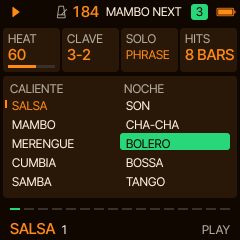
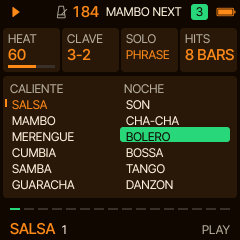
Twelve styles: the guaracha and the danzon
GUARACHA (CALIENTE, 200 BPM): the son fast, a conjunto's tres, bongo
martillo, maracas and trumpet, on 2-3. DANZON (NOCHE, 112 BPM): Cuba's
ballroom, the charanga's violins over the upright, the pailas on the
cinquillo and its answer, the guiro, no congas and no clave. Both come
after the ten of 0.1, so the saved settings and sets keep their numbers;
the styles list fits six a side.

Claude-Session: https://claude.ai/code/session_01VgesZfE8qndbNyhtoqzKDD

Changed region(s): [[0.4958, 0.4083, 0.9625, 0.7875], [0.0292, 0.4083, 0.3208, 0.7875]]

diff --git a/firmware/src/ma_groove.c b/firmware/src/ma_groove.c
@@ -151,6 +151,12 @@ const ma_style MA_STYLE[MA_STYLES] = {
      PF_BOSSA, BF_BOSSA, HF_BOSSA, MA_ST_BOSSA, 0, 40, 35, 30, MA_MUTE_OPEN, {{1, 7, 0}, {1, 6, 0}, {1, 4, 5}}},
     {"TANGO", MA_SIDE_NOCHE, 118, 9, MA_SC_HARMONIC, 70, MA_CLAVE_32, MA_HITS_8, {0, 1, 7}, {10, 5, 3, 4}, 1, 0,
      PF_TANGO, BF_TANGO, HF_TANGO, MA_ST_TANGO, 0, 30, 30, 35, MA_MUTE_OPEN, {{6, 7, 1}, {0, 2, 6}, {0, 7, 5}}},
+    /* the guaracha: the son fast and cheeky, a conjunto's (the tres, the bongo, the maracas, a trumpet) */
+    {"GUARACHA", MA_SIDE_CALIENTE, 200, 2, MA_SC_MAJOR, 80, MA_CLAVE_23, MA_HITS_8, {3, 1, 1}, {0, 1, 2, 11}, 1, 0,
+     PF_GUAJEO, BF_TUMBAO, HF_SON, MA_ST_GUARACHA, 1, 30, 30, 30, MA_MUTE_OPEN, {{7, 0, 3}, {0, 6, 5}, {0, 1, 2}}},
+    /* the danzon: Cuba's ballroom, a charanga's violins over the piano, the pailas' cinquillo, the guiro */
+    {"DANZON", MA_SIDE_NOCHE, 112, 5, MA_SC_MAJOR, 45, MA_CLAVE_32, MA_HITS_16, {0, 1, 5}, {2, 11, 0, 7}, 2, 0,
+     PF_CHACHA, BF_CHACHA, HF_CHACHA, MA_ST_DANZON, 0, 40, 35, 35, MA_MUTE_OPEN, {{1, 2, 7}, {0, 6, 5}, {4, 5, 3}}},
 };
 const char *ma_style_name(int i) { return MA_STYLE[clampi(i, 0, MA_STYLES - 1)].name; }
 
@@ -549,6 +555,8 @@ static const char *const GUITAR_PAT[MA_STYLES][2] = {
     [MA_ST_BOLERO] = {"b.a.a.a.f.a.a.a.b.a.a.a.f.a.a.a.", "b...a.a.f...a.a.b...a.a.f.a.a.a."},
     [MA_ST_BOSSA] = {"b..c..c.f.c..c..b..c..c.f..c..c.", "b.c..c.cf.c..c..b.c..c.cf..c.c.."},
     [MA_ST_TANGO] = {"D...D...D...D...D...D...D...D...", "D..D..D.D...D...D..D..D.D...D..."},
+    [MA_ST_GUARACHA] = {"D..u..d.m.u.d.u.D..u.d..m.u.d.u.", "b.u.m.u.b.u.m.u.b.u.m.u.f.u.m.u."},
+    [MA_ST_DANZON] = {"b.a.a.a.f.a.a.a.b.a.a.a.f.a.a.a.", "D...m...D...d.d.D...m...D...d.d."},
 };
 /* the bass: '.' rest, 'r' root, 'f' fifth, 'o' octave, 't' third, 'n' the next chord's root (the tumbao's
  * anticipation), 'p' a semitone below the next root (the approach); '-' holds the note before. Four of each family
@@ -663,6 +671,17 @@ static const perc_set_t PERC[MA_STYLES] = {
     /* the tango has no drums: the band is the rhythm. A wooden knock on the strong beats when HEAT is up */
     [MA_ST_TANGO] = {2, {{MA_DR_WOOD, G_OTHER, "x...............x..............."},
                          {MA_DR_TOM_LO, G_KICK, "o...............o..............."}}},
+    /* the guaracha: a conjunto's, the bongo's martillo, the maracas on the eighths (the claves on their own) */
+    [MA_ST_GUARACHA] = {6, {L_MARTILLO_0, L_MARTILLO_1, L_MARTILLO_2,
+                            {MA_DR_SHAKER_FWD, G_EXTRA, "x...x...x...x...x...x...x...x..."},
+                            {MA_DR_SHAKER_BACK, G_EXTRA, "..o...o...o...o...o...o...o...o."},
+                            {MA_DR_CONGA_MUTE, G_CONGA, "......o.......o.......o.......o."}}},
+    /* the danzon: the pailas (the timbal's shell) on the cinquillo and its answer, the low paila's boom at the end of
+     * the phrase, the guiro; no congas, no clave */
+    [MA_ST_DANZON] = {4, {{MA_DR_PAILA, G_TIMBAL, "X.xx.xx.x...x.x.X.xx.xx.x...x.x."},
+                          {MA_DR_TIMBAL_LO, G_TIMBAL, "..............................X."},
+                          {MA_DR_GUIRO_LONG, G_EXTRA, "x.......x.......x.......x......."},
+                          {MA_DR_GUIRO_SHORT, G_EXTRA, "....o.o.....o.o.....o.o.....o.o."}}},
 };
 
 /* the lanes for the PERC panel: CONGA BONGO TIMBAL EXTRA CLAVE and the rest */
@@ -1013,7 +1032,8 @@ static void play_perc(ma_groove *g, int i, uint32_t delay, float hum)
     float heat = (float)s->heat / 100.0f;
     int sc = sec_now(g);
     bool bells = sc == MA_SEC_MON || sc == MA_SEC_MON2 || sc == MA_SEC_MBO || sc == MA_SEC_MONA;
-    bool salsa_like = s->snd[3] == MA_ST_SALSA || s->snd[3] == MA_ST_MAMBO || s->snd[3] == MA_ST_SON;
+    bool salsa_like = s->snd[3] == MA_ST_SALSA || s->snd[3] == MA_ST_MAMBO || s->snd[3] == MA_ST_SON ||
+                      s->snd[3] == MA_ST_GUARACHA;
     bool intro_soft = s->arc && g->sec == MA_SEC_IN && g->sec_bar == 0;
     /* the style's lanes, but for the groups a card has set to its own pattern (or OFF) */
     for (int k = 0; k < ps->n; ++k) {

diff --git a/firmware/src/ma_ui.c b/firmware/src/ma_ui.c
@@ -503,13 +503,13 @@ static void mu_panel_styles(ma_ui *u)
     int sel = g->next_style >= 0 ? g->next_style : g->s.style;
     mu_label(10, 5, "CALIENTE", T_MID);
     mu_label(124, 5, "NOCHE", T_MID);
-    for (int i = 0; i < 10; ++i) {
+    for (int i = 0; i < MA_STYLES; ++i) {
         int col = MA_STYLE[i].side, row = 0;
         for (int k = 0; k < i; ++k) row += MA_STYLE[k].side == col;
-        int32_t x = col ? 120 : 6, y = 22 + row * 19;
+        int32_t x = col ? 120 : 6, y = 21 + row * 16;
         bool now = i == g->s.style, q = i == sel && g->next_style >= 0;
         if (q || (i == sel && !g->playing)) {
-            cv_rrect(x, y - 3, 110, 17, 3, T_ACCENT, T_SURF);
+            cv_rrect(x, y - 2, 110, 15, 3, T_ACCENT, T_SURF);
             cv_text_fit(x + 6, y, &AF_S, MA_STYLE[i].name, T_INK, T_ACCENT, 100);
         } else {
             cv_text_fit(x + 6, y, &AF_S, MA_STYLE[i].name, now ? T_THEME : T_TEXT, T_SURF, 100);

diff --git a/firmware/src/ma_groove.h b/firmware/src/ma_groove.h
@@ -33,9 +33,10 @@
 
 enum { MA_PIANO, MA_BASS, MA_HORNS, MA_PERC, MA_PARTS };
 enum { MA_SIDE_CALIENTE, MA_SIDE_NOCHE };
-#define MA_STYLES 10
+#define MA_STYLES 12
 enum { MA_ST_SALSA, MA_ST_MAMBO, MA_ST_MERENGUE, MA_ST_CUMBIA, MA_ST_SAMBA,
-       MA_ST_SON, MA_ST_CHACHA, MA_ST_BOLERO, MA_ST_BOSSA, MA_ST_TANGO };
+       MA_ST_SON, MA_ST_CHACHA, MA_ST_BOLERO, MA_ST_BOSSA, MA_ST_TANGO,
+       MA_ST_GUARACHA, MA_ST_DANZON };   /* (the last two after the ten of 0.1: the records' numbers stay) */
 enum { MA_SC_MINOR, MA_SC_MAJOR, MA_SC_DORIAN, MA_SC_HARMONIC, MA_SCALES };
 enum { MA_CLAVE_32, MA_CLAVE_23, MA_CLAVE_COUNT };
 enum { MA_SOLO_OFF, MA_SOLO_PHRASE, MA_SOLO_KEYS, MA_SOLO_COUNT };

diff --git a/firmware/src/ma_sounds.h b/firmware/src/ma_sounds.h
@@ -115,7 +115,8 @@ static inline const char *mas_name(int part, int i)
 {
     if (part == MA_PERC) {               /* (the PERC card: a style's percussion, its name short enough for a card) */
         static const char *const SHORT[MA_STYLES] = {"SALSA", "MAMBO", "MERENG", "CUMBIA", "SAMBA", "SON", "CHACHA",
-                                                     "BOLERO", "BOSSA", "TANGO"};
+                                                     "BOLERO", "BOSSA", "TANGO", "GUARAC",
+                                                     "DANZON"};
         return SHORT[(unsigned)i % MA_STYLES];
     }
     return MAS_SOUND[part % 3][(unsigned)i % MA_SOUNDS].name;

diff --git a/web/ma_make_site.py b/web/ma_make_site.py
@@ -47,7 +47,7 @@ def ma_version():
 
 BLURB = """Generative Latin grooves for the M-VAVE FM-1. Let the band play, tu al solo: a sampled percussion
 section on the clave, a montuno upright, a tumbao bass and the horns, from salsa and mambo to bolero and tango.
-Ten styles; press play, and take the solo on the keys."""
+Twelve styles; press play, and take the solo on the keys."""
 
 
 def page(body, foot):

diff --git a/README.md b/README.md
@@ -37,8 +37,8 @@ first. Installing firmware is at your own risk.
 ## Ten things Manta does
 
 1. **A band on the clave**: piano, bass, horns and percussion all phrase with the clave, 3-2 or 2-3 (the CLAVE card).
-2. **Ten styles** on two sides: CALIENTE (salsa, mambo, merengue, cumbia, samba) and NOCHE (son, cha-cha, bolero, bossa,
-   tango), each with its own tempo, patterns, sounds and percussion.
+2. **Twelve styles** on two sides: CALIENTE (salsa, mambo, merengue, cumbia, samba, guaracha) and NOCHE (son, cha-cha,
+   bolero, bossa, tango, danzón), each with its own tempo, patterns, sounds and percussion.
 3. **A real percussion section**: thirty one-shots, congas, bongos, timbales, bells, agogô, claves, woodblock, güiro,
    shakers, cabasa, triangle, toms and a washboard, from CC0 recordings.
 4. **Real piano and brass**: a sampled Yamaha upright playing the montuno, and a sampled trumpet and trombone section,
@@ -62,7 +62,7 @@ first. Installing firmware is at your own risk.
 | **SOLO** | OFF, PHRASE (the solo trumpet plays the melody in the verso and improvises in the montuno) or KEYS (only you). |
 | **HITS** | Band hits on their own at the end of every 4, 8 or 16 bars of the montuno, or OFF. |
 
-## Ten styles
+## Twelve styles
 
 | CALIENTE | | NOCHE | |
 | --- | --- | --- | --- |
@@ -71,6 +71,7 @@ first. Installing firmware is at your own risk.
 | **MERENGUE** · 152 | fast tambora, the güira's scrape, sax riffs | **BOLERO** · 80 | arpeggios, a harmon-muted trumpet, soft bongos |
 | **CUMBIA** · 98 | accordion, guacharaca, the llamador's offbeat | **BOSSA** · 136 | the nylon guitar's bossa, rim clicks, sevenths, a tenor sax |
 | **SAMBA** · 102 | surdo, tamborim, agogô, ganzá, the guitar's partido alto | **TANGO** · 118 | marcato piano, bandoneon, no drums at all |
+| **GUARACHA** · 200 | the son fast: tres, bongó, maracas, a trumpet | **DANZON** · 112 | Cuba's ballroom: violins, the pailas' cinquillo, güiro |
 
 A style brings its own tempo, sounds, key, chord loop, patterns and percussion; your MIX, PAN 3D, ARC and MENU stay.
 ALGORITHM picks another song in the same style: a new chord loop, riff and melody, the same each time you come back to

diff --git a/docs/DEVELOPMENT.md b/docs/DEVELOPMENT.md
@@ -4,7 +4,7 @@ The working notes behind Manta: the agreements, how the work flows, why the code
 stands and what comes next. What Manta is and how to play it is in the [README](../README.md) and the
 [manual](MANUAL.md).
 
-Status: 10 November 2026. Version 0.1, a test build on `dev`: the groove engine, the ten styles, the percussion kit,
+Status: 10 November 2026. Version 0.1, a test build on `dev`: the groove engine, the twelve styles, the percussion kit,
 the upright and the pages, tested on the host and in the browser emulator; the FM-1 build comes from CI.
 
 ## Agreements
@@ -44,7 +44,7 @@ Manta's files are `firmware/src/ma_*`, `tests/ma_*`, `tools/ma_*`, `web/ma_*` an
 
 | File | Does |
 | --- | --- |
-| `ma_groove.h/.c` | the engine: ten styles, the chord loops, the clave and the two-bar patterns of each part and each drum, the form, BAND HIT and the descarga, the mambo, the solo (its phrases, its mute, PAN 3D), swing and human timing. Plain C, no Felucca: it runs on the host as it does on the FM-1 |
+| `ma_groove.h/.c` | the engine: twelve styles, the chord loops, the clave and the two-bar patterns of each part and each drum, the form, BAND HIT and the descarga, the mambo, the solo (its phrases, its mute, PAN 3D), swing and human timing. Plain C, no Felucca: it runs on the host as it does on the FM-1 |
 | `ma_sounds.h` | the sounds on Felucca's engines and their trims, the kit's notes and their General MIDI notes, and how the cards set a part's track (level, place, sends, the matrix's tone, gain and place slots) |
 | `ma_ui.h/.c` | the twelve pages, the cards, the styles list, the sets, on Felucca's `gfx.c` |
 | `ma_fw.c` | the glue: the groove on the tracks and MIDI out, loading a part's sound when it changes, the panel and its LEDs, the settings and the sets in flash, the splash |

diff --git a/docs/CHEATSHEET.md b/docs/CHEATSHEET.md
@@ -11,7 +11,7 @@ second page where it has one. HOME takes you back to PLAY. The keys only ever pl
 | --- | --- |
 | Start / stop | **PLAY**: with the intro (ARC on) |
 | Tempo / volume | **SELECT** / **MASTER** |
-| Another style | **PRESETS**: one of ten, on the next bar line (CALIENTE: SALSA, MAMBO, MERENGUE, CUMBIA, SAMBA; NOCHE: SON, CHA-CHA, BOLERO, BOSSA, TANGO) |
+| Another style | **PRESETS**: one of twelve, on the next bar line (CALIENTE: SALSA, MAMBO, MERENGUE, CUMBIA, SAMBA, GUARACHA; NOCHE: SON, CHA-CHA, BOLERO, BOSSA, TANGO, DANZON) |
 | Another song | **ALGORITHM**: a new chord loop, riff, melody and sounds in the same style, on the next bar |
 | Band hit | **REC** tapped: the whole band hits the clave's figure on the next bar (a cierre) |
 | Descarga | **REC** held: the percussion alone until you let go, then a timbal roll and the band back on the bar line |

diff --git a/docs/RELEASE.md b/docs/RELEASE.md
@@ -2,8 +2,8 @@
 
 The first test build: a Latin band on the FM-1.
 
-- Ten styles on two sides: CALIENTE (SALSA, MAMBO, MERENGUE, CUMBIA, SAMBA) and NOCHE (SON, CHA-CHA, BOLERO, BOSSA,
-  TANGO), every pattern on the clave, 3-2 or 2-3.
+- Twelve styles on two sides: CALIENTE (SALSA, MAMBO, MERENGUE, CUMBIA, SAMBA, GUARACHA) and NOCHE (SON, CHA-CHA,
+  BOLERO, BOSSA, TANGO, DANZON), every pattern on the clave, 3-2 or 2-3.
 - A sampled percussion section of thirty one-shots (congas, bongos, timbales, bells, agogô, claves, woodblock, güiro,
   shakers, cabasa, triangle, toms, a kick, a washboard), a sampled upright piano, a sampled trumpet and
   trombone section (VSCO 2 CE), the trombone an octave under the trumpets, a sampled tenor sax and violin section,

diff --git a/docs/MANUAL.md b/docs/MANUAL.md
@@ -6,7 +6,7 @@ Knob 1 to 4 turn the four cards on the screen. A page's button pressed again goe
 
 ## Playing
 
-PLAY starts with the intro (with ARC on) and stops. PRESETS opens the list of the ten styles while you turn,
+PLAY starts with the intro (with ARC on) and stops. PRESETS opens the list of the twelve styles while you turn,
 CALIENTE on the left, NOCHE on the right; the chosen one comes in on the next bar line, NEXT in the header until it
 does. ALGORITHM picks a new song in the same style on the next bar: its number seeds the chord loop, the riffs, the
 melody and the sounds, so a song always comes back the same. SELECT is the tempo, MASTER the volume.
